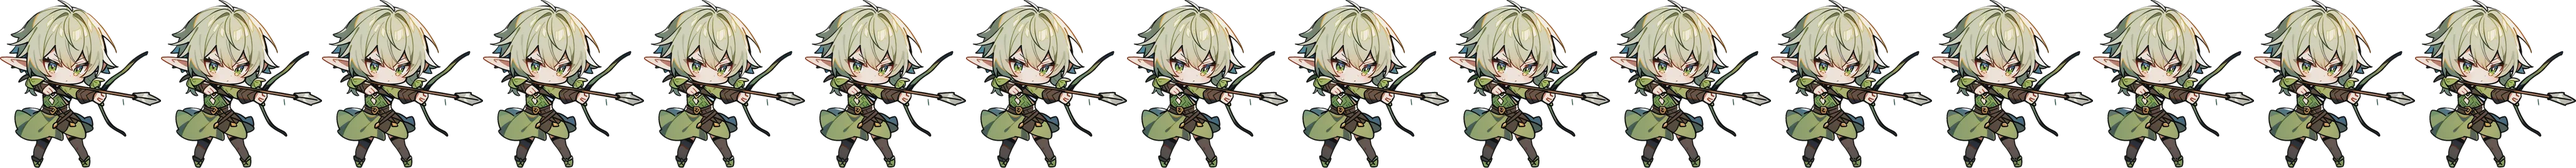
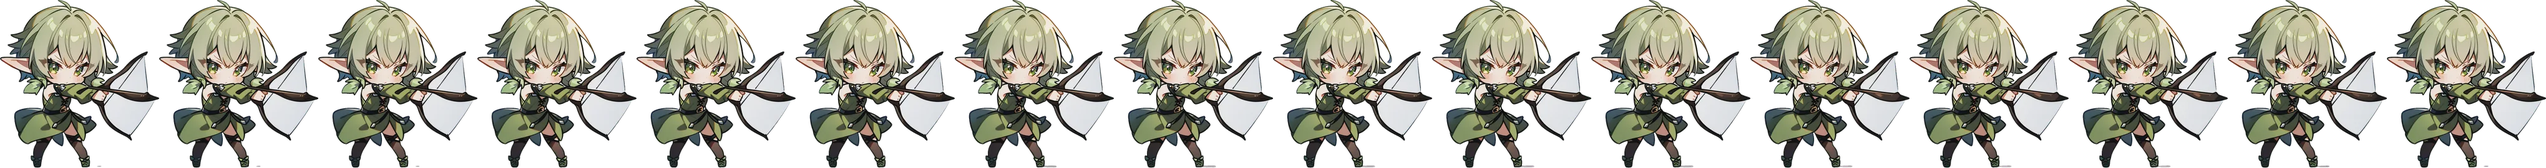
塔防:妖精攻擊改完整 8 格循環(舉弓→拉滿停 0.2 秒→放箭→收弓)、待機從垂弓格衍生;英雄畫大兩成(84→100);打怪中不疊待機擺動
使用者:「它就是抖動 箭就射出去了 這個跟之前的圖片有甚麼不一樣」。

diff --git a/src/views/aegis/td/scene.ts b/src/views/aegis/td/scene.ts
@@ -1165,14 +1165,16 @@ export class TdScene {
     if (!a) return
     const at = t - tw.attackAt
     // 沒在出手時,每一格都看射程內最近的怪在哪一邊,先轉過去等它(出手那段維持出手時的朝向,免得中途翻面)
-    if (!tw.down && (at < 0 || at > 24)) {
+    let enemyNear = false
+    if (!tw.down) {
       let best: MobVis | null = null, bd = tw.rangePx * 1.6
       for (const m of this.mobs.values()) {
         if (m.gone) continue
         const d = Math.hypot(m.x - tw.x, m.y - tw.y)
         if (d < bd) { bd = d; best = m }
       }
-      if (best && Math.abs(best.x - tw.x) > 6) tw.faceLeft = best.x < tw.x
+      enemyNear = best !== null
+      if ((at < 0 || at > 24) && best && Math.abs(best.x - tw.x) > 6) tw.faceLeft = best.x < tw.x
     }
     const dir = tw.faceLeft ? -1 : 1
     // 有逐格影格就播影格(出手後 at 個 tick → 毫秒 → 第幾格);沒有才用程式姿勢
@@ -1184,15 +1186,15 @@ export class TdScene {
     const ps = this.pose(tw.cls, at, dir)
     // 影格負責手上的動作,但整個人也要跟著動(前傾、後仰、衝刺、落地壓一下),不然看起來像動畫鑲在一張靜止的圖裡;幅度取程式姿勢的六成
     if (fi >= 0) { ps.attack = true; ps.rot *= 0.6; ps.sx = 1 + (ps.sx - 1) * 0.6; ps.sy = 1 + (ps.sy - 1) * 0.6 }
-    // 沒出手:整個人慢慢左右擺、上下浮(每座塔相位錯開)
-    if (fi < 0 && !tw.down) {
+    // 附近沒怪才慢慢左右擺、上下浮(每座塔相位錯開);打怪中不疊擺動,免得跟出手動作打架看起來像抖
+    if (fi < 0 && !tw.down && !enemyNear) {
       const ph = this.clock * 1.6 + tw.slot * 0.9
       ps.rot += Math.sin(ph) * 0.035 * (tw.faceLeft ? -1 : 1)
       ps.dy += Math.sin(ph * 2) * 1.5
       ps.dx += Math.sin(ph) * 1.2
     }
     const img = ps.attack ? (tw.job && a.jobAttack) || a.attack : (tw.job && a.jobIdle) || a.idle
-    const h = 84
+    const h = 100   // 2026-10-10 由 84 放大:84 像素時拉弓的手只動幾個像素,看起來像抖
     const w = (img.width / img.height) * h
     const cs = h / 260        // 影格素材以 260 高為基準,跟待機圖同比例
     const born = Math.min(1, (t - tw.bornAt) / 6)
